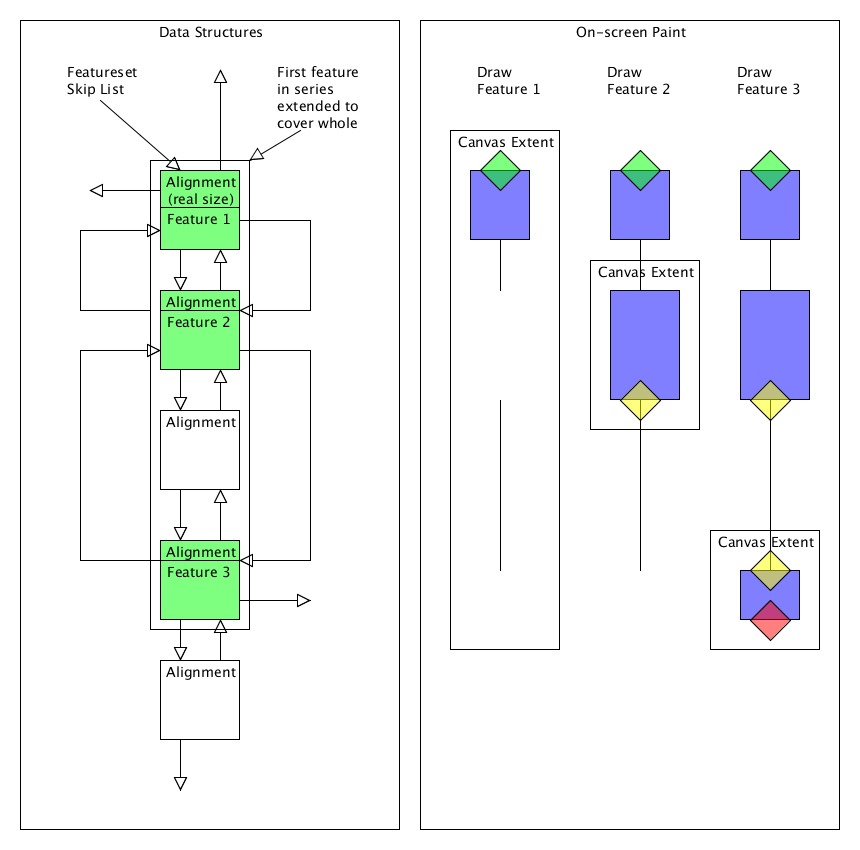
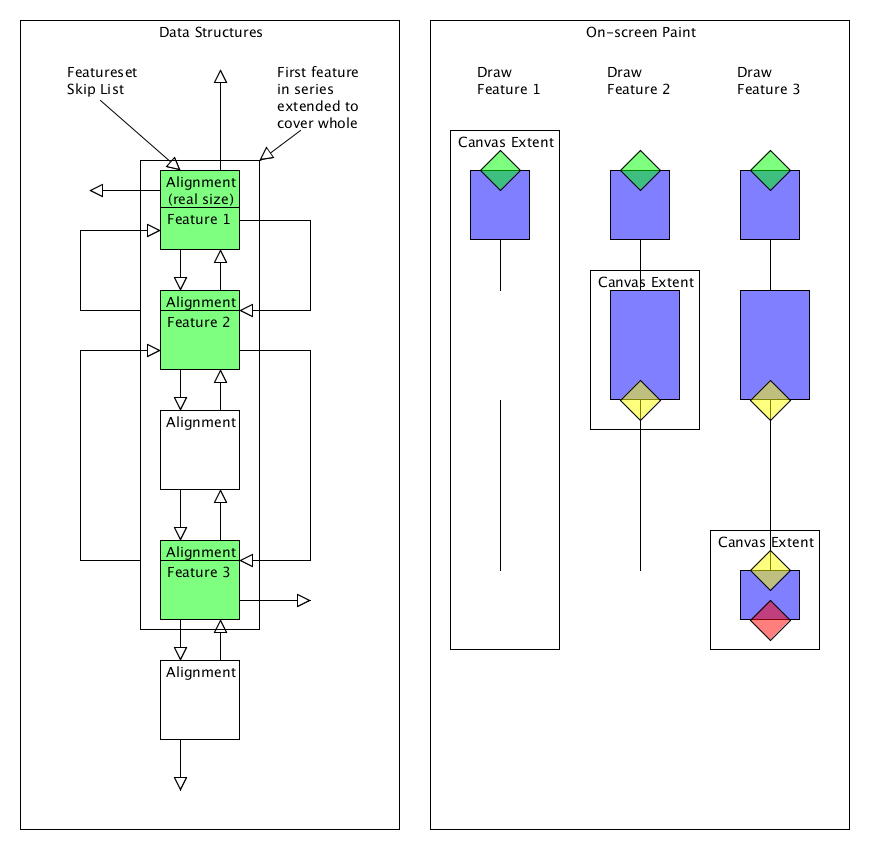
more docs for bumped alignments

diff --git a/docs/IntWeb/Design/notes/new_model_canvas.html b/docs/IntWeb/Design/notes/new_model_canvas.html
@@ -172,7 +172,7 @@ Note also that if we also try to paint lines upstream of a feature this will not
 </p>
 <p>Glyphs may be slightly tricky to add on as we have to calculate the maximum size of a glyph to define the extra overlap distance.
 </p>
-<p> The root cause of these problems is that we are dealing with feature parts and we ned to display some part in the middle that we can't find on an expose.  If we could deal with alignments as composite objects then these could easily pick up any relevant expose event.
+<p> The root cause of these problems is that we are dealing with feature parts and we need to display some part in the middle that we can't find on an expose.  If we could deal with alignments as composite objects then these could easily pick up any relevant expose event.
 
 <a name="bump_solution"></a>
 <h6>Attempting a solution</h6>
@@ -182,7 +182,7 @@ Note also that if we also try to paint lines upstream of a feature this will not
 Using a sorted index to find features to display for a given expose event is a simple idea and works well and it is worth preserving this for other kinds of feature.
 
 <li> <i>Handle colinear lines in the first alignment in a series</i><br />
-The initial implementation added one line per feature but this has proved tricky.  If we adjust the first feature's extent to cover the whole series and make its paint function draw all colinear lines for the series and it's own feature, then we are guaranteed to pick up all the expose events.  As we bump each series of features together it is easy to calculate the total extent and also to maintain a featureset wide bump overlap limit.  Note that this is stricly a downstream extension of the feature extent and avoids problems with re-ordering the index.  2nd and subsequent features will paint themselves.
+The initial implementation added one line per feature but this has proved tricky.  If we adjust the first feature's extent to cover the whole series and make its paint function draw all colinear lines for the series and it's own feature, then we are guaranteed to pick up all the expose events.  As we bump each series of features together it is easy to calculate the total extent and also to maintain a featureset wide bump overlap limit.  Note that this is stricly a downstream extension of the feature extent and avoids problems with re-ordering the index.  2nd and subsequent features will paint themselves.  We also avoid adding an alignemt wide feature just fo decorations - this distrube the index and added extra complexity at the cost of adjusting one coordinate.
 
 <li> <i>Handle glyphs via a separate bump overlap range.</i><br />
 These can occur between features (nc-splice) in which case they are handled as above. They can also occur at the start and end of a series and extend beyond these bounds. As the exisitng overlap mechanism will pick up expose events for the top end we need no concern ourselfves with that. The bottom end however requires further processing of features beyond the expose region to pick up features just beyond it. As glyphs are defined in pixel coordinates we can calculate maximum value of these and adjust for the current zoom level in the draw function.  Glyphs will be drawn per feature, and this process can be added regardless of bump state, which will keep the code cleaner.
@@ -190,10 +190,32 @@ These can occur between features (nc-splice) in which case they are handled as a
 Here's an pictorial repepresentation:
 <img src="Design/notes/bumped_align.png"  class="img">
 
-
+<h4>Handling alignment glyphs</h4>
+<p>There is a performance gain to be had by caching glyph shapes as these are all the same shape and size (but may be inverted or displayed in a different colour.  Glyphs in general can be sized by score (which can be set in the style) and we have to handle this (effciently) if someone configures it (eg as for GF_Splice glyphs as standalone features), but for bumped alignments we currently have a restricted level of variation.  This means we only need to have four data structures for each glyph style definition, but have to allow for one per feature 'just in case'.
+</p>
+<p>To provide a clean interface the alignment code will use a #define or function call to access a sub-feature glyph and these will be painted on demand.  These may be stored per feature (quiWe prefer to avoid large amounts of memory allocation (which saves memory as not all alignmentsck and easy but uses a lot of memory <i>NOTE: this could require 100MB for 200k alignments if pre-allocated)</i> or in a hash table
+(memory efficient but a little fiddly).  The problem is to find a way to index glyphs in an effcient enough but also general way - note that we need to index an instance of a glyph not its definition.. What we are aiming at is to just have examples of each variation (max 8 per style of which we currently have 2) that works regardless of our knowledge of current use.
+</p>
+<p>To handle arbritary number of glyph instances we must have one glyph per features (at each end) and the only way to do this effeicently in terms of memory is via a pointer or key in the alignment struct (we wish to avoid recalculatingon expose for speed).  If we can use these pointers/ keys to refer to a few glyph instnace that can be mapped to a feature's coordinated then we have an effcient solution.
+</p>
+<h5>A solution</h5>
+<p>
+<ul>
+<li>On display (via lazy evaluation of bumped features) we calculate a signature for each glyph derived from the style definiton and feature data.
+<li> The style defintion reveals whether or not the instance population is limited (eg not sized by score) and if not we allocate a unigue glyph struct - this will use a lot of memory but is required.
+<li> If the style is limited in variablilty then the feature data (strand, farme, score/ style threshold is combined with the style data to create a signature for a cached glyph and that is created and referred to directly using pointer.
+<li> Cached styles are held in a hash table indexed by signature and never freed
+<li> A signature will be implemented as a GQuark derived from a string made up of the style id and various configuratioon options.
+</ul>
+This gives: a) efficient memory use for stable glyph styles, b) once only calculation of the glyph shape. c) rapid acess and display.  It is also relatively future proof: if we add more style otpions it is possible to add these to the glyph signature, and configuration changes will filter through transparently.
+</p>
+<p><b>Note</b> this code is part of the glyph implementation and not restricted to alignment features, although other types of features would have to code the interface if requried.
+</p>
+<p><i>A Nuance</i>: score_mode ALT displays the glyph using a different colour, and this can be implemented by the calling code easily enough, we have the options to use shorter signatures and fewer glyph instances,; however this is not hugely significant in terms of speed or memory use.
+</p>
 
 <h4>Handling focus highlight</h4>
-<p>In the inial trial we had the luxury of knowing that features do not overlap and focus highlight has been implemented simply by setting the colour of individual features.
+<p>In the initial trial we had the luxury of knowing that features do not overlap and focus highlight has been implemented simply by setting the colour of individual features.
 </p>
 <p>For the more general case we need to display multiple features on top of others and in the existing implementation this has been done by re-ordering the features in a column (eg via foo_canvas_raise_to_top()).  Note that this has resulted in a few anomalies in the past and there are instances where the focus code is deficient (eg revcomp will restore only a single focus item.
 </p>
@@ -201,7 +223,7 @@ Here's an pictorial repepresentation:
 </p>
 <p>One way, using the proposed canvas structure is to flag each focussed item and have display code display these after displaying all others. This would be a simple process of adding focus items to a list on expoose (but note that wiggle plots are perhaps complicated ... these currently do not show focus highlights as there is no obvious way to do this).
 </p>
-<p>An alternavtive would be to post process a focus items list on expose; this does not fit so well into the overal canvas structure but could possibly be handled by the block objects.  This would be difficult to implement if as proposed we do canvas items first and then containers.
+<p>An alternative would be to post process a focus items list on expose; this does not fit so well into the overal canvas structure but could possibly be handled by the block objects.  This would be difficult to implement if as proposed we do canvas items first and then containers.
 
 <h3>Feature data structures</h3>
 <p>
